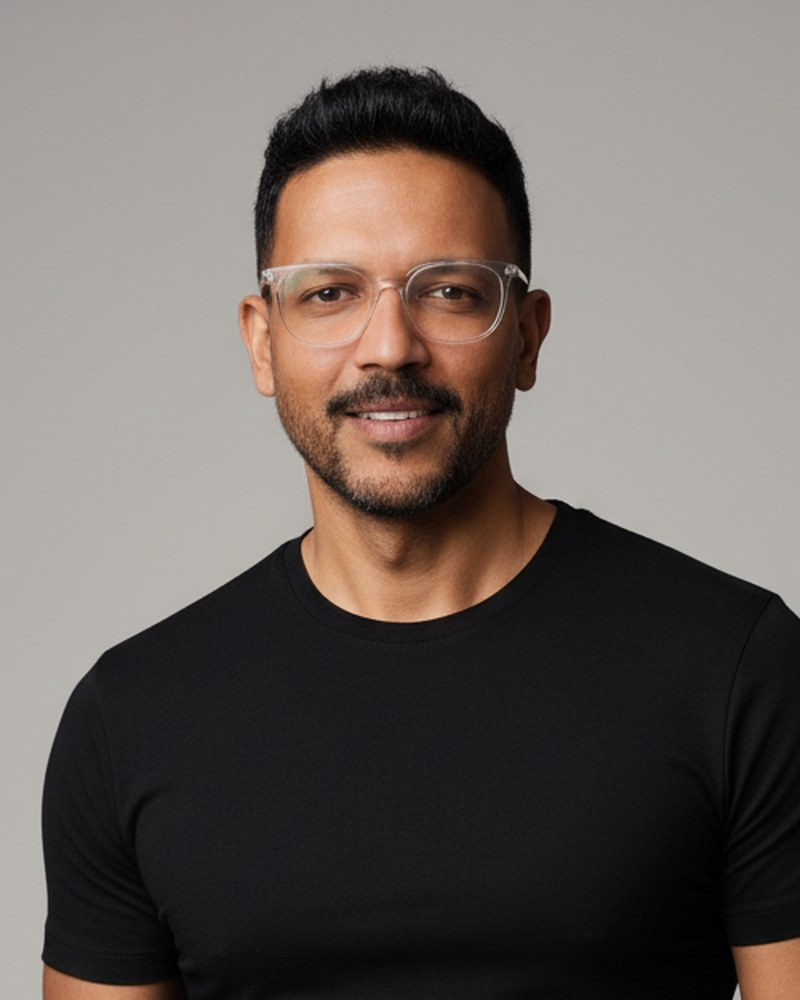
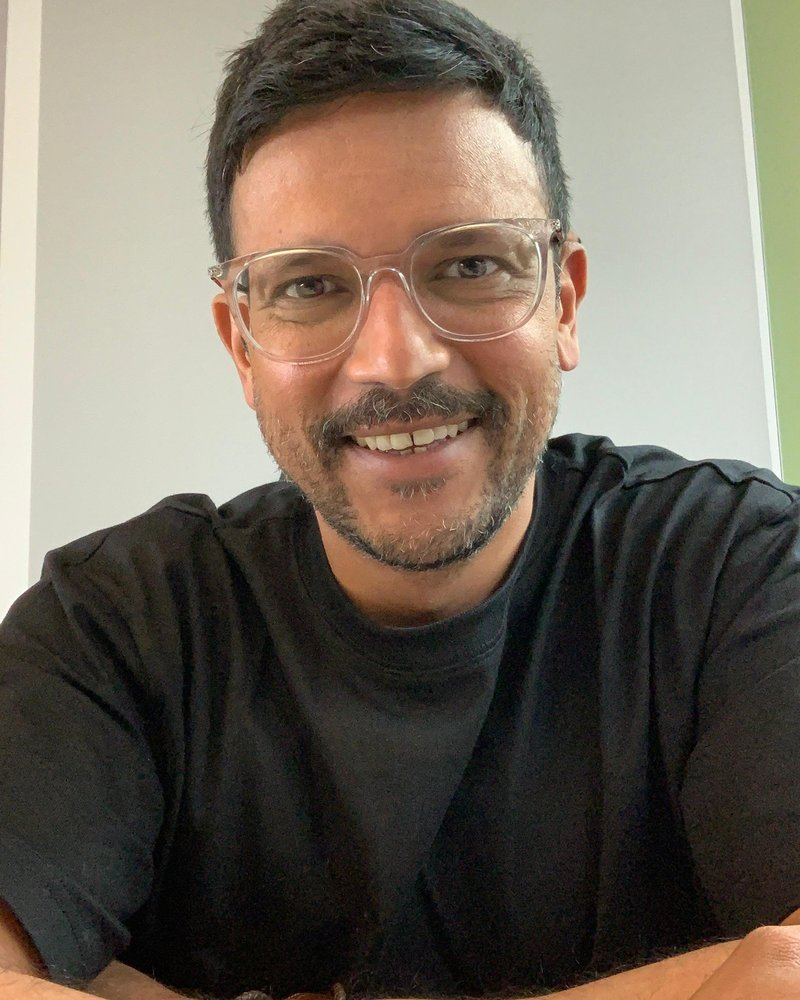
About: new headshot (4:5 crop, metadata stripped)
Claude-Session: https://claude.ai/code/session_01HYiEgFuMdvhXKf9bc1Qafs

diff --git a/index.html b/index.html
@@ -272,7 +272,7 @@
 <section id="about" class="rule-top" aria-labelledby="about-title">
 <div class="wrap section about">
 <div style="display:flex;flex-direction:column;gap:18px">
-<img class="about-photo" src="/assets/headshot.jpg" alt="Portrait of Clyde Araujo" width="240" height="300">
+<img class="about-photo" src="/assets/headshot.jpg?v=2" alt="Portrait of Clyde Araujo" width="240" height="300">
 <p class="eyebrow">About</p>
 <h2 class="h2" id="about-title">Measured on results.</h2>
 <p class="body" style="margin:0;font-size:18px">I owned CRM targets across lifetime value, retention, engagement and member growth, and led multi-country teams of specialists and managers across CRM technology, lifecycle marketing and performance analysis. Raised across India, the Middle East, the UK and the US; English and German as working languages.</p>
